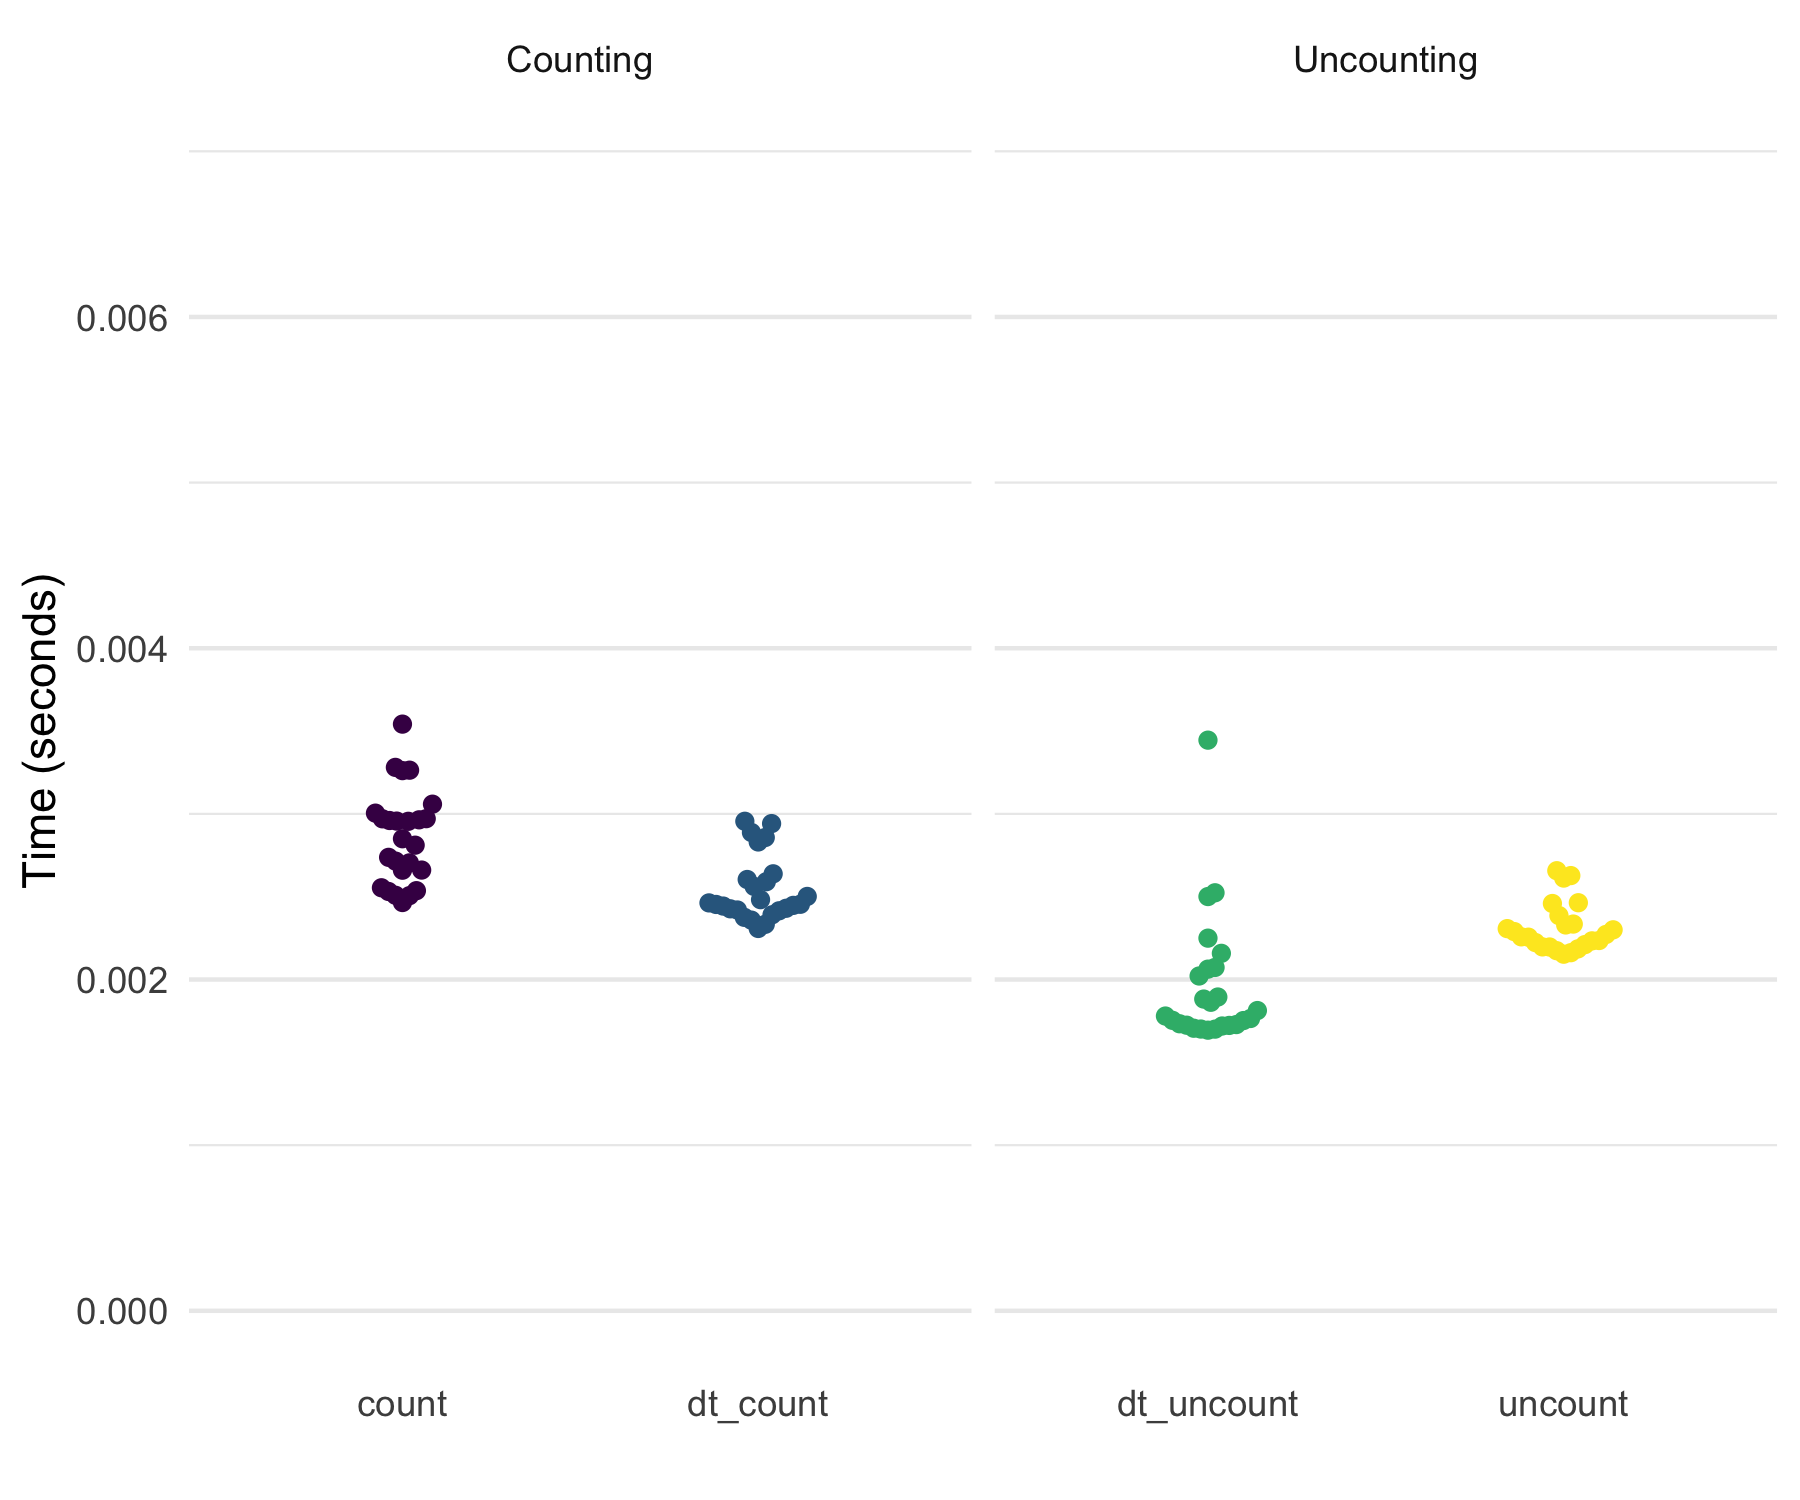
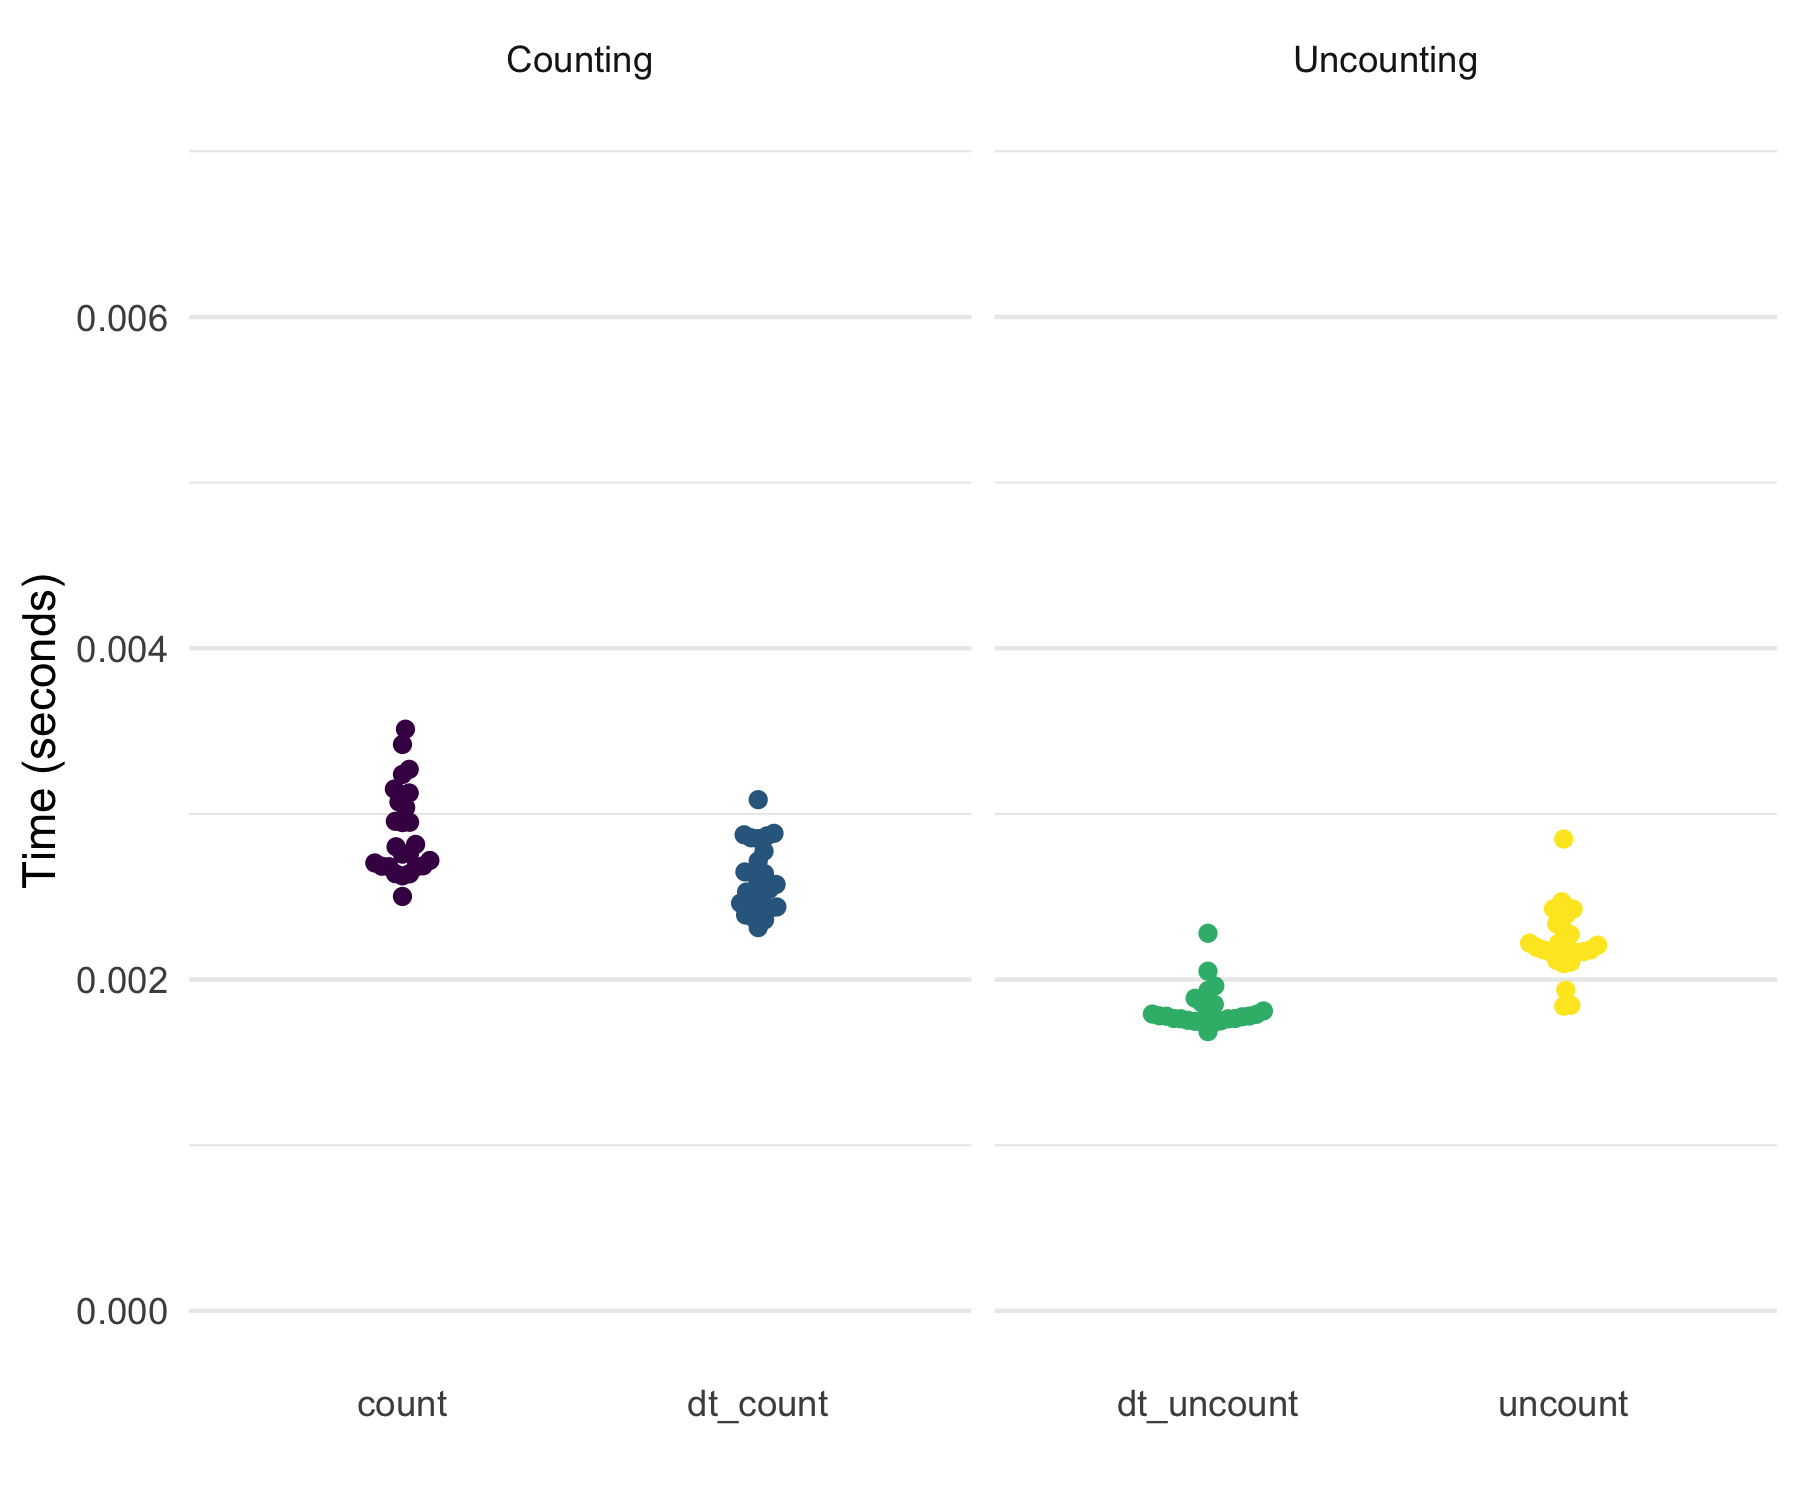
simplify nest and updated readme

diff --git a/README.md b/README.md
@@ -85,9 +85,9 @@ remotes::install_github("TysonStanley/tidyfast")
 
 ## Examples
 
-The nesting and unnesting functions were shown in a [previous
-preprint](https://psyarxiv.com/u8ekc/) while the other functions are
-new. Herein, I show some simple applications.
+The initial versions of the nesting and unnesting functions were shown
+in a [preprint](https://psyarxiv.com/u8ekc/). Herein is shown some
+simple applications and the functions’ speed/efficiency.
 
 ### Nesting and Unnesting
 
@@ -95,6 +95,8 @@ The following data table will be used for the nesting/unnesting
 examples.
 
 ``` r
+set.seed(84322)
+
 library(tidyfast)
 library(data.table)
 library(dplyr)       # to compare with case_when()
@@ -103,7 +105,7 @@ library(tidyr)       # to compare with fill() and separate()
 dt <- data.table(
    x = rnorm(1e5),
    y = runif(1e5),
-   grp = sample(1L:3L, 1e5, replace = TRUE),
+   grp = sample(1L:5L, 1e5, replace = TRUE),
    nested1 = lapply(1:10, sample, 10, replace = TRUE),
    nested2 = lapply(c("thing1", "thing2"), sample, 10, replace = TRUE),
    id = 1:1e5)
@@ -125,45 +127,47 @@ nested
 #> 1:   1 <data.table>
 #> 2:   2 <data.table>
 #> 3:   3 <data.table>
+#> 4:   4 <data.table>
+#> 5:   5 <data.table>
 ```
 
 We can also unnest this with `dt_unnest()`:
 
 ``` r
-dt_unnest(nested, col = data, by = grp)
-#>         by          x          y         nested1
-#>      1:  1  0.1624127 0.11793103 2,3,5,9,1,3,...
-#>      2:  1 -0.8749771 0.01200319 6,2,4,8,7,6,...
-#>      3:  1 -1.2709261 0.99871440 2,3,5,9,1,3,...
-#>      4:  1  0.6252182 0.08392742 4,1,2,5,4,2,...
-#>      5:  1 -0.4269078 0.46730652 5,5,4,2,5,2,...
-#>     ---                                         
-#>  99996:  3 -1.3785841 0.65154073 1,1,1,1,1,1,...
-#>  99997:  3  1.7506497 0.35086904 1,3,1,3,1,3,...
-#>  99998:  3  1.7920949 0.57767072 2,4,2,2,3,4,...
-#>  99999:  3  1.3958509 0.20316446 5,5,4,2,5,2,...
-#> 100000:  3  0.4617428 0.64128894 2,8,2,4,6,6,...
+dt_unnest(nested, col = data)
+#>         grp          x           y               nested1
+#>      1:   1 -1.1813164 0.004599736       2,2,1,2,1,1,...
+#>      2:   1 -1.0384420 0.853208540       2,8,4,6,7,7,...
+#>      3:   1 -0.6247028 0.072652533       4,2,2,1,1,1,...
+#>      4:   1 -1.3651514 0.569079215       1,1,1,3,6,2,...
+#>      5:   1  0.1403744 0.864617284 10, 1, 1, 1, 8, 1,...
+#>     ---                                                 
+#>  99996:   5 -0.3437795 0.995197776       2,1,2,2,2,1,...
+#>  99997:   5  1.6157744 0.241735719 10, 1, 1, 1, 8, 1,...
+#>  99998:   5 -0.1321246 0.885283934       2,3,3,2,2,4,...
+#>  99999:   5 -1.7019715 0.524621296       5,4,3,3,3,2,...
+#> 100000:   5  0.3821493 0.032851280       2,8,4,6,7,7,...
 #>                                               nested2    id
-#>      1: thing2,thing2,thing2,thing2,thing2,thing2,...    10
-#>      2: thing2,thing2,thing2,thing2,thing2,thing2,...    18
-#>      3: thing2,thing2,thing2,thing2,thing2,thing2,...    20
-#>      4: thing1,thing1,thing1,thing1,thing1,thing1,...    25
-#>      5: thing1,thing1,thing1,thing1,thing1,thing1,...    27
+#>      1: thing2,thing2,thing2,thing2,thing2,thing2,...     2
+#>      2: thing2,thing2,thing2,thing2,thing2,thing2,...     8
+#>      3: thing1,thing1,thing1,thing1,thing1,thing1,...    15
+#>      4: thing1,thing1,thing1,thing1,thing1,thing1,...    17
+#>      5: thing2,thing2,thing2,thing2,thing2,thing2,...    20
 #>     ---                                                    
-#>  99996: thing1,thing1,thing1,thing1,thing1,thing1,... 99991
-#>  99997: thing1,thing1,thing1,thing1,thing1,thing1,... 99993
+#>  99996: thing1,thing1,thing1,thing1,thing1,thing1,... 99983
+#>  99997: thing2,thing2,thing2,thing2,thing2,thing2,... 99990
 #>  99998: thing2,thing2,thing2,thing2,thing2,thing2,... 99994
-#>  99999: thing1,thing1,thing1,thing1,thing1,thing1,... 99997
-#> 100000: thing1,thing1,thing1,thing1,thing1,thing1,... 99999
+#>  99999: thing2,thing2,thing2,thing2,thing2,thing2,... 99996
+#> 100000: thing2,thing2,thing2,thing2,thing2,thing2,... 99998
 ```
 
 When our list columns don’t have data tables (as output from
-`dt_nest()`) we can use the `dt_unnest_vec()` function, that will unnest
+`dt_nest()`) we can use the `dt_hoist()` function, that will unnest
 vectors.
 
 ``` r
 dt_hoist(dt, 
-         nested1, nested2, 
+         nested1, nested2,
          by = id)
 #>              id nested1 nested2
 #>       1:      1       1  thing1
@@ -172,12 +176,29 @@ dt_hoist(dt,
 #>       4:      1       1  thing1
 #>       5:      1       1  thing1
 #>      ---                       
-#>  999996: 100000       3  thing2
+#>  999996: 100000       1  thing2
 #>  999997: 100000       5  thing2
-#>  999998: 100000       8  thing2
-#>  999999: 100000       7  thing2
-#> 1000000: 100000       6  thing2
+#>  999998: 100000       7  thing2
+#>  999999: 100000       6  thing2
+#> 1000000: 100000       7  thing2
 ```
+
+Speed comparisons (similar to those shown in the preprint) are
+highlighted below. Notably, the timings are without the `nested1` and
+`nested2` columns.
+
+<img src="man/figures/README-unnamed-chunk-7-1.png" width="70%" />
+
+    #> # A tibble: 2 x 3
+    #>   expression   median mem_alloc
+    #>   <chr>      <bch:tm> <bch:byt>
+    #> 1 dt_nest      3.21ms    2.88MB
+    #> 2 group_nest   5.01ms    2.54MB
+    #> # A tibble: 2 x 3
+    #>   expression   median mem_alloc
+    #>   <chr>      <bch:tm> <bch:byt>
+    #> 1 dt_unnest    5.15ms    6.21MB
+    #> 2 unnest      12.68ms    8.47MB
 
 ### If Else
 
@@ -221,14 +242,14 @@ identical(x_cat, x_cat_fif)
 Notably, `dt_case_when()` is very fast and memory efficient, given it is
 built on `data.table::fifelse()`.
 
-<img src="man/figures/README-unnamed-chunk-9-1.png" width="70%" />
+<img src="man/figures/README-unnamed-chunk-10-1.png" width="70%" />
 
     #> # A tibble: 3 x 3
     #>   expression     median mem_alloc
     #>   <chr>        <bch:tm> <bch:byt>
-    #> 1 case_when       121ms   148.8MB
-    #> 2 dt_case_when     35ms    34.3MB
-    #> 3 fifelse        31.4ms    34.3MB
+    #> 1 case_when     125.7ms   148.8MB
+    #> 2 dt_case_when   35.1ms    34.3MB
+    #> 3 fifelse        34.5ms    34.3MB
 
 ## Fill
 
@@ -249,63 +270,63 @@ dt_with_nas <- data.table(
 # Original
 dt_with_nas
 #>      x  y  z  a id
-#>  1:  1 NA  3 NA  2
-#>  2:  2 NA  4  2  1
-#>  3:  3  1  5  7  3
-#>  4:  4  2  6  4  3
-#>  5:  5  3  7  3  3
-#>  6:  6  4  8  5  2
-#>  7:  7  5  9  9  1
-#>  8:  8  6 10 NA  1
+#>  1:  1 NA  3 NA  3
+#>  2:  2 NA  4  9  3
+#>  3:  3  1  5 NA  1
+#>  4:  4  2  6  8  3
+#>  5:  5  3  7 NA  2
+#>  6:  6  4  8 NA  2
+#>  7:  7  5  9  7  3
+#>  8:  8  6 10 NA  2
 #>  9:  9  7 NA NA  2
-#> 10: 10  8 NA NA  3
+#> 10: 10  8 NA  4  2
 
 # All defaults
 dt_fill(dt_with_nas, y, z, a)
 #>      y  z  a
 #>  1: NA  3 NA
-#>  2: NA  4  2
-#>  3:  1  5  7
-#>  4:  2  6  4
-#>  5:  3  7  3
-#>  6:  4  8  5
-#>  7:  5  9  9
-#>  8:  6 10  9
-#>  9:  7 10  9
-#> 10:  8 10  9
+#>  2: NA  4  9
+#>  3:  1  5  9
+#>  4:  2  6  8
+#>  5:  3  7  8
+#>  6:  4  8  8
+#>  7:  5  9  7
+#>  8:  6 10  7
+#>  9:  7 10  7
+#> 10:  8 10  4
 
 # by id variable called `grp`
 dt_fill(dt_with_nas, 
         y, z, a, 
         id = list(id))
 #>     id  y  z  a
-#>  1:  2 NA  3 NA
-#>  2:  2  4  8  5
-#>  3:  2  7  8  5
-#>  4:  1 NA  4  2
-#>  5:  1  5  9  9
-#>  6:  1  6 10  9
-#>  7:  3  1  5  7
-#>  8:  3  2  6  4
-#>  9:  3  3  7  3
-#> 10:  3  8  7  3
+#>  1:  3 NA  3 NA
+#>  2:  3 NA  4  9
+#>  3:  3  2  6  8
+#>  4:  3  5  9  7
+#>  5:  1  1  5 NA
+#>  6:  2  3  7 NA
+#>  7:  2  4  8 NA
+#>  8:  2  6 10 NA
+#>  9:  2  7 10 NA
+#> 10:  2  8 10  4
 
 # both down and then up filling by group
 dt_fill(dt_with_nas, 
         y, z, a, 
         id = list(id), 
         .direction = "downup")
-#>     id y  z a
-#>  1:  2 4  3 5
-#>  2:  2 4  8 5
-#>  3:  2 7  8 5
-#>  4:  1 5  4 2
-#>  5:  1 5  9 9
-#>  6:  1 6 10 9
-#>  7:  3 1  5 7
-#>  8:  3 2  6 4
-#>  9:  3 3  7 3
-#> 10:  3 8  7 3
+#>     id y  z  a
+#>  1:  3 2  3  9
+#>  2:  3 2  4  9
+#>  3:  3 2  6  8
+#>  4:  3 5  9  7
+#>  5:  1 1  5 NA
+#>  6:  2 3  7  4
+#>  7:  2 4  8  4
+#>  8:  2 6 10  4
+#>  9:  2 7 10  4
+#> 10:  2 8 10  4
 ```
 
 In its current form, `dt_fill()` is faster than `tidyr::fill()` and uses
@@ -331,13 +352,13 @@ marks3 <-
   )
 ```
 
-<img src="man/figures/README-unnamed-chunk-12-1.png" width="70%" />
+<img src="man/figures/README-unnamed-chunk-13-1.png" width="70%" />
 
     #> # A tibble: 2 x 3
     #>   expression                                    median mem_alloc
     #>   <bch:expr>                                  <bch:tm> <bch:byt>
-    #> 1 tidyr::fill(dplyr::group_by(df3, id), x, y)   63.5ms    30.9MB
-    #> 2 tidyfast::dt_fill(dt3, x, y, id = list(id))   21.9ms    29.1MB
+    #> 1 tidyr::fill(dplyr::group_by(df3, id), x, y)   64.8ms    30.7MB
+    #> 2 tidyfast::dt_fill(dt3, x, y, id = list(id))   24.5ms    29.1MB
 
 ## Separate
 
@@ -374,14 +395,14 @@ Testing with a 4 MB data set with one variable that has columns of “A.B”
 repeatedly, shows that `dt_separate()` is fast but less memory efficient
 than `tidyr::separate()`.
 
-<img src="man/figures/README-unnamed-chunk-17-1.png" width="70%" />
+<img src="man/figures/README-unnamed-chunk-18-1.png" width="70%" />
 
     #> # A tibble: 3 x 3
     #>   expression            median mem_alloc
     #>   <chr>               <bch:tm> <bch:byt>
-    #> 1 separate               351ms    11.6MB
+    #> 1 separate               354ms    11.6MB
     #> 2 dt_separate            123ms    30.6MB
-    #> 3 dt_separate-mutable    116ms    26.7MB
+    #> 3 dt_separate-mutable    109ms    26.7MB
 
 ## Count and Uncount
 
@@ -400,9 +421,11 @@ the `dt` data table from the nesting examples.
 counted <- dt_count(dt, grp)
 counted
 #>    grp     N
-#> 1:   1 33330
-#> 2:   2 33217
-#> 3:   3 33453
+#> 1:   1 19638
+#> 2:   2 19987
+#> 3:   3 20033
+#> 4:   4 20269
+#> 5:   5 20073
 ```
 
 ``` r
@@ -415,11 +438,11 @@ print(uncounted)
 #>      4:   1
 #>      5:   1
 #>     ---    
-#>  99996:   3
-#>  99997:   3
-#>  99998:   3
-#>  99999:   3
-#> 100000:   3
+#>  99996:   5
+#>  99997:   5
+#>  99998:   5
+#>  99999:   5
+#> 100000:   5
 ```
 
 These are also quick (not that the `tidyverse` functions were at all
@@ -440,7 +463,7 @@ marks5 <-
   )
 ```
 
-<img src="man/figures/README-unnamed-chunk-21-1.png" width="70%" />
+<img src="man/figures/README-unnamed-chunk-22-1.png" width="70%" />
 
 *Other functions are currently in progress.*
 
